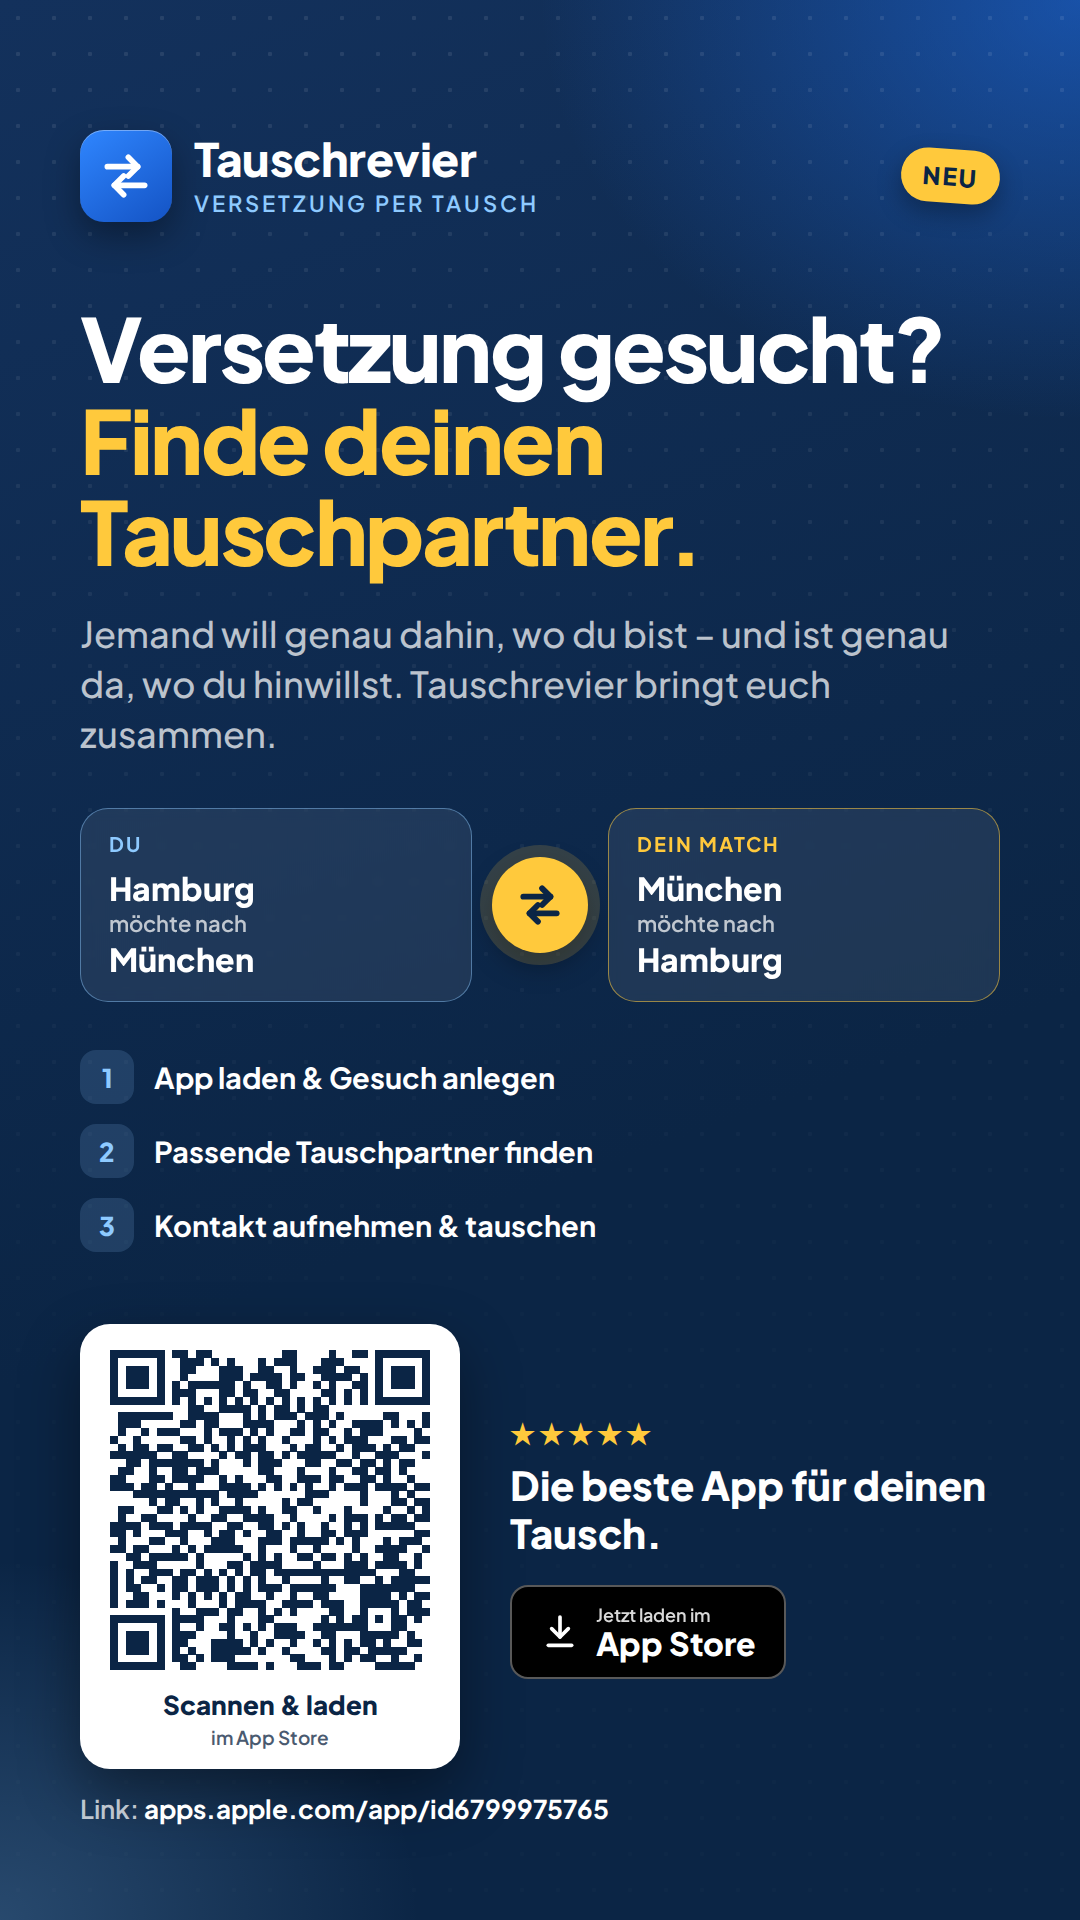
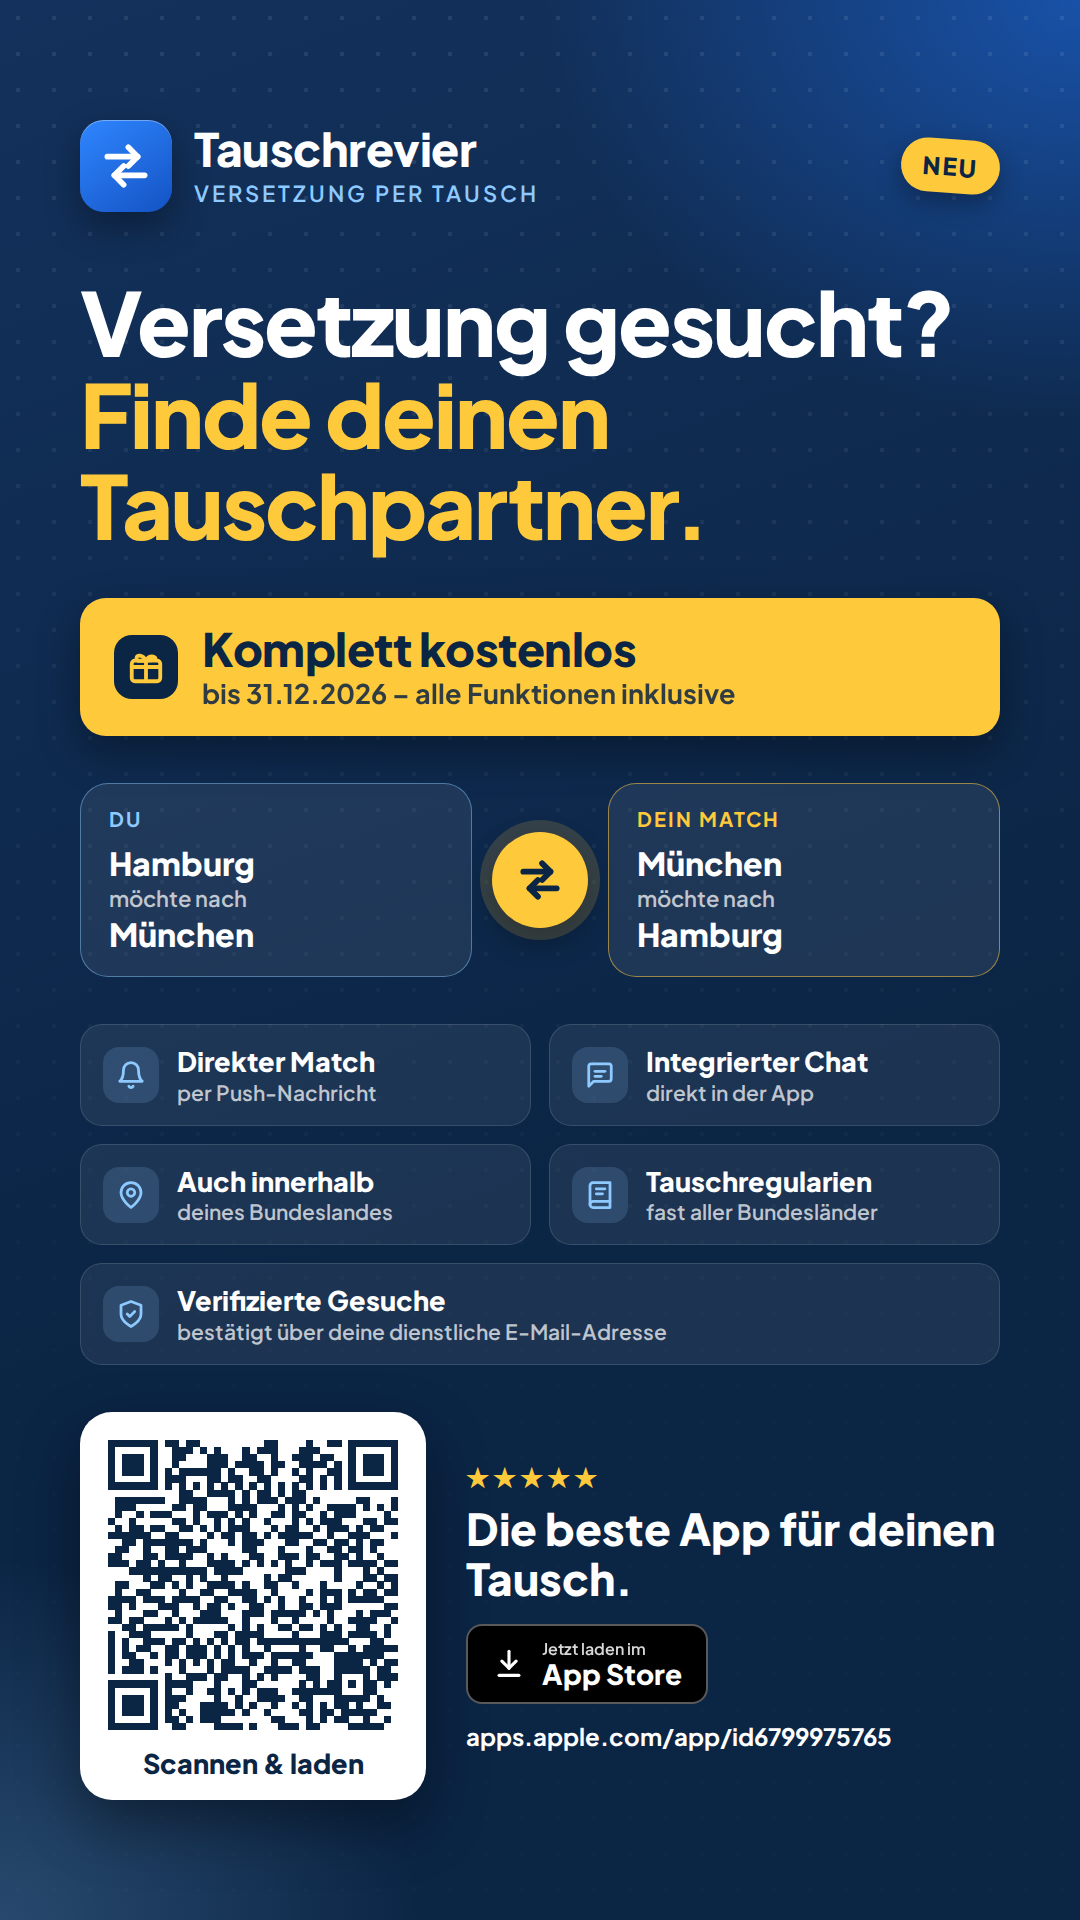
Tauschrevier-Flyer: Kostenlos-Hinweis bis 31.12.2026 und Funktionsübersicht
Push-Match, Chat, bundeslandinterner Wechsel, Tauschregularien und
verifizierte Gesuche ergänzt; Logo wird aus assets/logo.png übernommen,
sobald vorhanden.

Claude-Session: https://claude.ai/code/session_01RWbqSDmSdBeWwo9ymEWNGS

diff --git a/tauschrevier-flyer/flyer.html b/tauschrevier-flyer/flyer.html
@@ -42,19 +42,20 @@
 
   .wrap {
     position: relative; height: 100%;
-    display: flex; flex-direction: column;
-    padding: 72px 80px 64px;
+    display: flex; flex-direction: column; justify-content: space-between;
+    padding: 64px 80px 60px;
   }
-  .story .wrap { padding: 130px 80px 130px; justify-content: space-between; gap: 48px; }
+  .story .wrap { padding: 120px 80px 120px; }
 
   /* top brand row */
   .brand { display: flex; align-items: center; gap: 22px; }
   .logo {
-    width: 92px; height: 92px; border-radius: 24px;
+    width: 92px; height: 92px; border-radius: 24px; overflow: hidden; flex: none;
     background: linear-gradient(145deg, #2f86ff, #1453c4);
     display: grid; place-items: center;
     box-shadow: 0 14px 34px rgba(0,0,0,.35), inset 0 1px 0 rgba(255,255,255,.35);
   }
+  .logo img { width: 100%; height: 100%; object-fit: cover; display: block; }
   .brand-name { font-size: 46px; font-weight: 800; letter-spacing: -.5px; line-height: 1; }
   .brand-sub { font-size: 22px; font-weight: 600; color: var(--sky); letter-spacing: 3px; text-transform: uppercase; margin-top: 8px; }
   .new {
@@ -67,28 +68,35 @@
   }
 
   h1 {
-    margin-top: 50px;
-    font-size: 80px; line-height: 1.04; font-weight: 800; letter-spacing: -2.5px;
+    margin-top: 40px;
+    font-size: 74px; line-height: 1.04; font-weight: 800; letter-spacing: -2px;
   }
   h1 .hl { color: var(--gold); }
-  .lead {
-    margin-top: 24px; max-width: 900px;
-    font-size: 30px; line-height: 1.4; font-weight: 500; color: var(--soft);
-  }
-  .story h1 { margin-top: 80px; font-size: 88px; }
-  .story .lead { font-size: 36px; margin-top: 32px; }
+  .story h1 { margin-top: 64px; font-size: 88px; }
 
-  /* swap illustration */
-  .swap {
-    margin-top: 40px;
-    display: grid; grid-template-columns: 1fr 96px 1fr; align-items: center; gap: 20px;
+  /* free banner */
+  .free {
+    display: flex; align-items: center; gap: 24px;
+    background: var(--gold); color: var(--navy);
+    border-radius: 26px; padding: 20px 30px;
+    box-shadow: 0 16px 40px rgba(0,0,0,.35);
   }
-  .story .swap { margin-top: 0; }
+  .free-icon {
+    flex: none; width: 64px; height: 64px; border-radius: 18px;
+    background: var(--navy); display: grid; place-items: center;
+  }
+  .free-big { font-size: 40px; font-weight: 800; letter-spacing: -.5px; line-height: 1.05; }
+  .free-small { font-size: 24px; font-weight: 700; margin-top: 4px; opacity: .85; }
+  .story .free { padding: 26px 34px; }
+  .story .free-big { font-size: 46px; }
+  .story .free-small { font-size: 27px; }
+
+  /* swap illustration (story only) */
+  .swap { display: grid; grid-template-columns: 1fr 96px 1fr; align-items: center; gap: 20px; }
   .card {
     background: rgba(255,255,255,.08);
     border: 1.5px solid rgba(255,255,255,.16);
     border-radius: 28px; padding: 22px 28px;
-    backdrop-filter: blur(6px);
   }
   .card .who { font-size: 20px; font-weight: 700; letter-spacing: 2px; text-transform: uppercase; color: var(--sky); }
   .card .route { margin-top: 12px; font-size: 32px; font-weight: 800; line-height: 1.25; }
@@ -102,54 +110,62 @@
     box-shadow: 0 0 0 12px rgba(255,201,60,.16), 0 12px 28px rgba(0,0,0,.35);
   }
 
-  /* bottom: steps + QR */
-  .bottom {
-    margin-top: auto;
-    display: grid; grid-template-columns: 1fr 290px; gap: 40px; align-items: end;
+  /* features */
+  .features {
+    list-style: none;
+    display: grid; grid-template-columns: 1fr 1fr; gap: 16px;
   }
-  .story .bottom { margin-top: 0; grid-template-columns: 1fr; gap: 72px; }
-  .steps { list-style: none; display: grid; gap: 20px; }
-  .steps li { display: flex; align-items: center; gap: 20px; font-size: 29px; font-weight: 700; }
-  .num {
-    flex: none; width: 54px; height: 54px; border-radius: 16px;
-    background: rgba(142,202,255,.16); color: var(--sky);
-    display: grid; place-items: center; font-size: 26px; font-weight: 800;
+  .features li {
+    display: flex; align-items: center; gap: 18px;
+    background: rgba(255,255,255,.07);
+    border: 1.5px solid rgba(255,255,255,.13);
+    border-radius: 22px; padding: 16px 20px;
   }
-  .best {
-    margin-top: 28px; display: inline-flex; align-items: center; gap: 14px;
-    font-size: 26px; font-weight: 700; color: var(--gold);
+  .features li.wide { grid-column: 1 / -1; }
+  .fi {
+    flex: none; width: 56px; height: 56px; border-radius: 16px;
+    background: rgba(142,202,255,.16);
+    display: grid; place-items: center;
   }
-  .stars { letter-spacing: 4px; font-size: 28px; }
+  .ft { font-size: 25px; font-weight: 800; line-height: 1.2; }
+  .ft small { display: block; font-size: 20px; font-weight: 600; color: var(--soft); margin-top: 2px; }
+  .story .features { gap: 18px; }
+  .story .features li { padding: 20px 22px; }
+  .story .ft { font-size: 27px; }
+  .story .ft small { font-size: 21px; }
 
+  /* bottom: QR + CTA */
+  .cta { display: grid; grid-template-columns: auto 1fr; gap: 40px; align-items: center; }
   .qr-card {
     background: var(--white); color: var(--navy);
-    border-radius: 30px; padding: 26px 26px 20px;
+    border-radius: 28px; padding: 22px 22px 16px;
     text-align: center;
     box-shadow: 0 24px 60px rgba(0,0,0,.4);
   }
-  .qr-card img { width: 230px; height: 230px; display: block; margin: 0 auto; }
-  .qr-cta { margin-top: 18px; font-size: 26px; font-weight: 800; }
-  .qr-sub { font-size: 19px; font-weight: 600; color: #4a5a70; margin-top: 4px; }
+  .qr-card img { width: 196px; height: 196px; display: block; margin: 0 auto; }
+  .qr-cta { margin-top: 12px; font-size: 22px; font-weight: 800; }
+  .story .qr-card { padding: 28px 28px 20px; border-radius: 32px; }
+  .story .qr-card img { width: 290px; height: 290px; }
+  .story .qr-cta { font-size: 27px; margin-top: 16px; }
 
-  .story .qr-row { display: grid; grid-template-columns: 380px 1fr; gap: 50px; align-items: center; }
-  .story .qr-card img { width: 320px; height: 320px; }
+  .best { display: flex; align-items: center; gap: 12px; font-size: 24px; font-weight: 700; color: var(--gold); }
+  .stars { letter-spacing: 4px; font-size: 26px; }
+  .cta-title { font-size: 38px; font-weight: 800; line-height: 1.15; margin-top: 10px; }
   .store {
+    margin-top: 20px;
     display: inline-flex; align-items: center; gap: 16px;
     background: #000; color: #fff; border: 2px solid rgba(255,255,255,.35);
-    border-radius: 18px; padding: 16px 28px;
+    border-radius: 16px; padding: 12px 24px;
   }
-  .store small { display: block; font-size: 18px; font-weight: 600; opacity: .85; }
-  .store b { display: block; font-size: 32px; font-weight: 800; line-height: 1.1; }
-
-  .url {
-    margin-top: 14px; line-height: 1.35; font-size: 22px; font-weight: 600; color: var(--soft);
-  }
+  .store small { display: block; font-size: 16px; font-weight: 600; opacity: .85; }
+  .store b { display: block; font-size: 28px; font-weight: 800; line-height: 1.1; }
+  .url { margin-top: 16px; font-size: 21px; font-weight: 600; color: var(--soft); line-height: 1.35; }
   .url strong { color: var(--white); font-weight: 700; }
-  .story .url { font-size: 26px; margin-top: 22px; }
+  .story .cta-title { font-size: 44px; }
+  .story .url { font-size: 24px; }
 
   .only-story { display: none; }
-  .story .only-story { display: block; }
-  .story .only-feed { display: none; }
+  .story .only-story { display: grid; }
 </style>
 </head>
 <body>
@@ -159,6 +175,8 @@
   <div class="top">
     <div class="brand">
       <div class="logo">
+        <!-- Offizielles Logo: tauschrevier-flyer/assets/logo.png (fällt sonst auf das Symbol zurück) -->
+        <img src="assets/logo.png" alt="" onerror="this.remove()">
         <svg width="56" height="56" viewBox="0 0 24 24" fill="none" stroke="#fff" stroke-width="2.4" stroke-linecap="round" stroke-linejoin="round">
           <path d="M4 8h13"/><path d="M13 4l4 4-4 4"/>
           <path d="M20 16H7"/><path d="M11 12l-4 4 4 4"/>
@@ -172,10 +190,22 @@
     </div>
 
     <h1>Versetzung gesucht?<br><span class="hl">Finde deinen Tauschpartner.</span></h1>
-    <p class="lead">Jemand will genau dahin, wo du bist – und ist genau da, wo du hinwillst. Tauschrevier bringt euch zusammen.</p>
   </div>
 
-  <div class="swap">
+  <div class="free">
+    <div class="free-icon">
+      <svg width="38" height="38" viewBox="0 0 24 24" fill="none" stroke="#ffc93c" stroke-width="2.4" stroke-linecap="round" stroke-linejoin="round">
+        <rect x="3" y="8" width="18" height="13" rx="2"/><path d="M12 8v13"/><path d="M3 12h18"/>
+        <path d="M12 8c-2-4-6-4-6-1.5S9 8 12 8c3 0 6-.5 6-1.5S14 4 12 8z"/>
+      </svg>
+    </div>
+    <div>
+      <div class="free-big">Komplett kostenlos</div>
+      <div class="free-small">bis 31.12.2026 – alle Funktionen inklusive</div>
+    </div>
+  </div>
+
+  <div class="swap only-story">
     <div class="card me">
       <div class="who">Du</div>
       <div class="route">Hamburg <span>möchte nach</span> München</div>
@@ -192,45 +222,44 @@
     </div>
   </div>
 
-  <div class="bottom">
+  <ul class="features">
+    <li>
+      <span class="fi"><svg width="30" height="30" viewBox="0 0 24 24" fill="none" stroke="#8ecaff" stroke-width="2.2" stroke-linecap="round" stroke-linejoin="round"><path d="M6 8a6 6 0 0 1 12 0c0 7 3 9 3 9H3s3-2 3-9"/><path d="M10.3 21a1.94 1.94 0 0 0 3.4 0"/></svg></span>
+      <span class="ft">Direkter Match<small>per Push-Nachricht</small></span>
+    </li>
+    <li>
+      <span class="fi"><svg width="30" height="30" viewBox="0 0 24 24" fill="none" stroke="#8ecaff" stroke-width="2.2" stroke-linecap="round" stroke-linejoin="round"><path d="M21 15a2 2 0 0 1-2 2H7l-4 4V5a2 2 0 0 1 2-2h14a2 2 0 0 1 2 2z"/><path d="M8 9h8"/><path d="M8 13h5"/></svg></span>
+      <span class="ft">Integrierter Chat<small>direkt in der App</small></span>
+    </li>
+    <li>
+      <span class="fi"><svg width="30" height="30" viewBox="0 0 24 24" fill="none" stroke="#8ecaff" stroke-width="2.2" stroke-linecap="round" stroke-linejoin="round"><path d="M20 10c0 6-8 12-8 12s-8-6-8-12a8 8 0 0 1 16 0z"/><circle cx="12" cy="10" r="3"/></svg></span>
+      <span class="ft">Auch innerhalb<small>deines Bundeslandes</small></span>
+    </li>
+    <li>
+      <span class="fi"><svg width="30" height="30" viewBox="0 0 24 24" fill="none" stroke="#8ecaff" stroke-width="2.2" stroke-linecap="round" stroke-linejoin="round"><path d="M4 19.5A2.5 2.5 0 0 1 6.5 17H20"/><path d="M6.5 2H20v20H6.5A2.5 2.5 0 0 1 4 19.5v-15A2.5 2.5 0 0 1 6.5 2z"/><path d="M9 7h7"/><path d="M9 11h5"/></svg></span>
+      <span class="ft">Tauschregularien<small>fast aller Bundesländer</small></span>
+    </li>
+    <li class="wide">
+      <span class="fi"><svg width="30" height="30" viewBox="0 0 24 24" fill="none" stroke="#8ecaff" stroke-width="2.2" stroke-linecap="round" stroke-linejoin="round"><path d="M12 22s8-4 8-10V5l-8-3-8 3v7c0 6 8 10 8 10z"/><path d="M9 12l2 2 4-4"/></svg></span>
+      <span class="ft">Verifizierte Gesuche<small>bestätigt über deine dienstliche E-Mail-Adresse</small></span>
+    </li>
+  </ul>
+
+  <div class="cta">
+    <div class="qr-card">
+      <img src="qr.svg" alt="QR-Code zum App Store">
+      <div class="qr-cta">Scannen &amp; laden</div>
+    </div>
     <div>
-      <ul class="steps">
-        <li><span class="num">1</span>App laden &amp; Gesuch anlegen</li>
-        <li><span class="num">2</span>Passende Tauschpartner finden</li>
-        <li><span class="num">3</span>Kontakt aufnehmen &amp; tauschen</li>
-      </ul>
-      <div class="best only-feed"><span class="stars">★★★★★</span> Die beste App für deinen Tausch</div>
-      <div class="url only-feed">Jetzt im App Store:<br><strong>apps.apple.com/app/id6799975765</strong></div>
-    </div>
-
-    <div class="only-feed">
-      <div class="qr-card">
-        <img src="qr.svg" alt="QR-Code zum App Store">
-        <div class="qr-cta">Scannen &amp; laden</div>
-        <div class="qr-sub">im App Store</div>
+      <div class="best"><span class="stars">★★★★★</span></div>
+      <div class="cta-title">Die beste App für deinen Tausch.</div>
+      <div class="store">
+        <svg width="34" height="34" viewBox="0 0 24 24" fill="none" stroke="#fff" stroke-width="2.2" stroke-linecap="round" stroke-linejoin="round"><path d="M12 3v12"/><path d="M7 10l5 5 5-5"/><path d="M5 20h14"/></svg>
+        <div><small>Jetzt laden im</small><b>App Store</b></div>
       </div>
-    </div>
-
-    <div class="only-story">
-      <div class="qr-row">
-        <div class="qr-card">
-          <img src="qr.svg" alt="QR-Code zum App Store">
-          <div class="qr-cta">Scannen &amp; laden</div>
-          <div class="qr-sub">im App Store</div>
-        </div>
-        <div>
-          <div class="best" style="margin-top:0"><span class="stars">★★★★★</span></div>
-          <div style="font-size:40px;font-weight:800;line-height:1.2;margin-top:10px">Die beste App für deinen Tausch.</div>
-          <div style="margin-top:28px" class="store">
-            <svg width="40" height="40" viewBox="0 0 24 24" fill="none" stroke="#fff" stroke-width="2.2" stroke-linecap="round" stroke-linejoin="round"><path d="M12 3v12"/><path d="M7 10l5 5 5-5"/><path d="M5 20h14"/></svg>
-            <div><small>Jetzt laden im</small><b>App Store</b></div>
-          </div>
-        </div>
-      </div>
-      <div class="url">Link: <strong>apps.apple.com/app/id6799975765</strong></div>
+      <div class="url"><strong>apps.apple.com/app/id6799975765</strong></div>
     </div>
   </div>
-
 </div>
 <script>
   document.body.className = new URLSearchParams(location.search).get('v') || 'feed';

diff --git a/tauschrevier-flyer/POST-TEXT.md b/tauschrevier-flyer/POST-TEXT.md
@@ -9,9 +9,13 @@ oder `tauschrevier-story.png` (WhatsApp-Status / Facebook-Story).
 
 Irgendwo will jemand genau dahin, wo du gerade bist – und ist genau da, wo du hinwillst. Mit meiner neuen App **Tauschrevier** findet ihr euch. 🙌
 
-✅ Gesuch anlegen
-✅ Passende Tauschpartner finden
-✅ Kontakt aufnehmen & tauschen
+🎁 **Bis 31.12.2026 komplett kostenlos!**
+
+🔔 Direkter Match per Push-Nachricht
+💬 Integrierter Chat
+📍 Auch Wechsel innerhalb des eigenen Bundeslandes möglich
+📘 Tauschregularien fast aller Bundesländer
+🛡 Verifizierte Gesuche – bestätigt über die dienstliche E-Mail-Adresse
 
 📲 Jetzt im App Store laden:
 https://apps.apple.com/us/app/tauschrevier-versetzung/id6799975765
@@ -22,9 +26,11 @@ Teilt den Beitrag gerne mit Kolleginnen und Kollegen – je mehr mitmachen, dest
 
 ## Kurzversion (WhatsApp-Status / Gruppen)
 
-🔁 Versetzung gesucht? Mit **Tauschrevier** findest du deinen Tauschpartner!
+🔁 Versetzung gesucht? Mit **Tauschrevier** findest du deinen Tauschpartner – direkter Match per Push, Chat und verifizierte Gesuche.
+🎁 Bis 31.12.2026 komplett kostenlos!
 📲 https://apps.apple.com/us/app/tauschrevier-versetzung/id6799975765
 
 ---
 
 Neu rendern (nach Änderungen an `flyer.html`): `node render.js`
+Offizielles Logo: als `assets/logo.png` ablegen, es wird dann automatisch verwendet.
